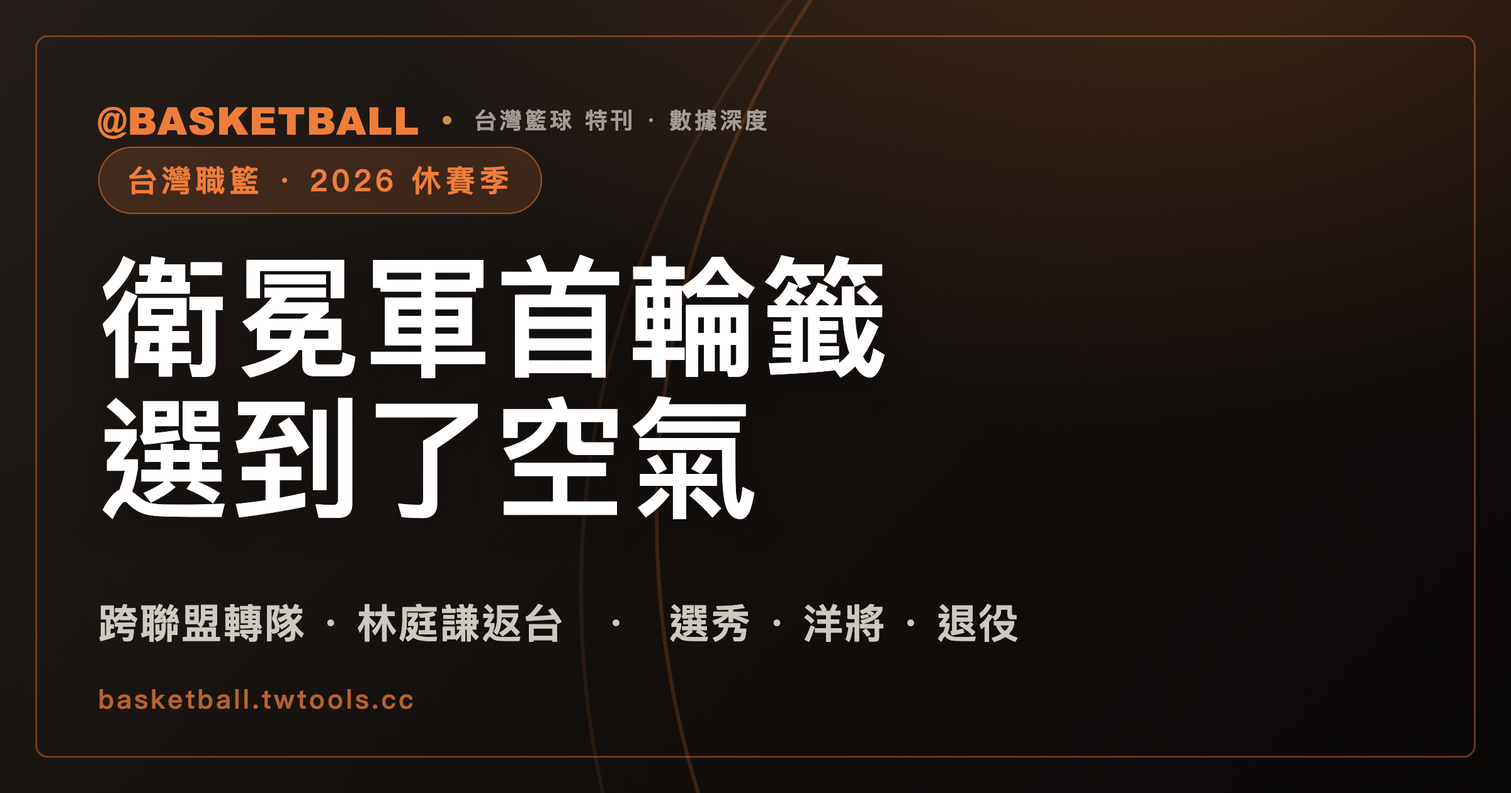
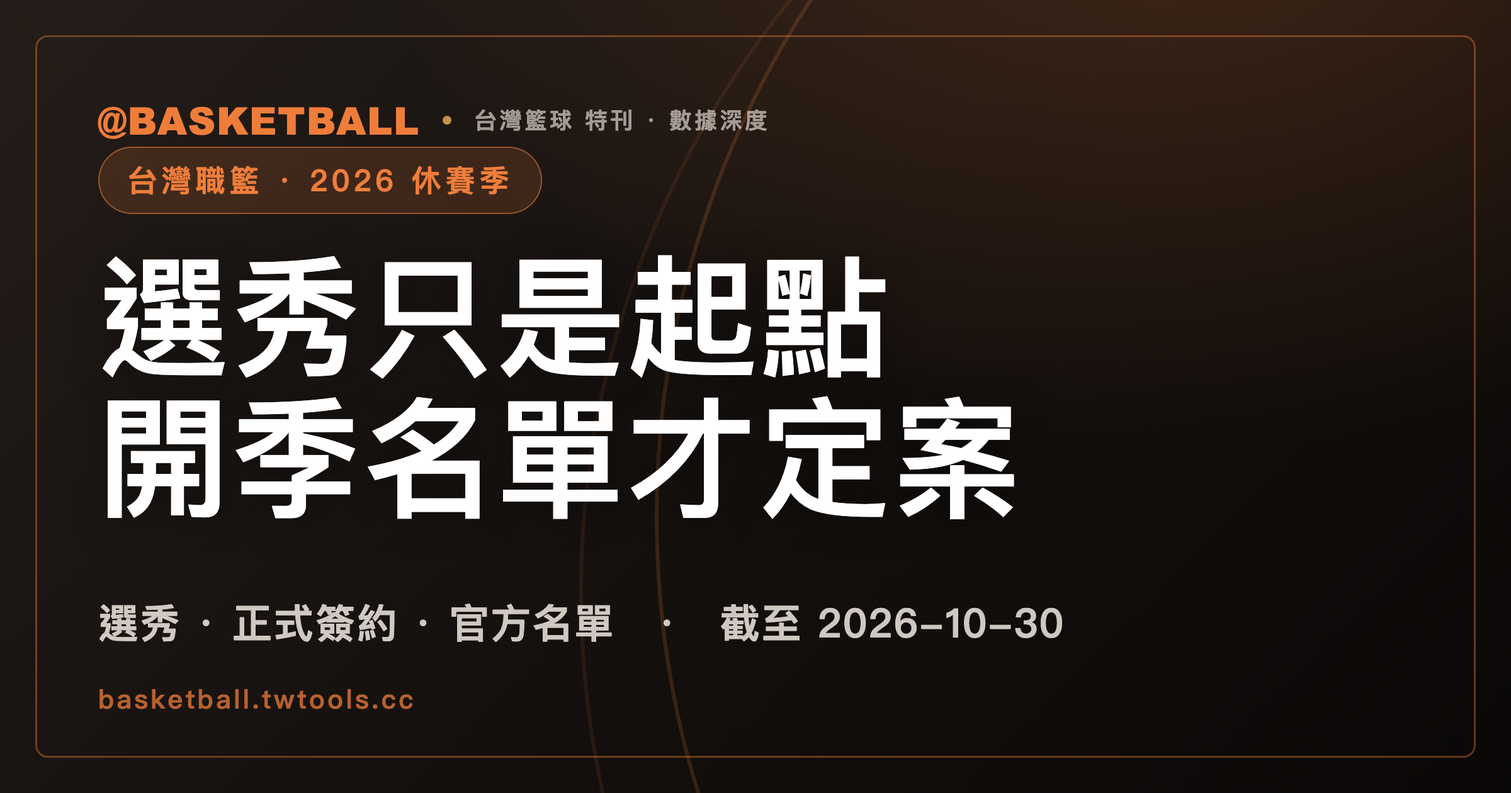
Rewrite Taiwan basketball offseason guide (#110)

Changed region(s): [[0.0625, 0.3095, 0.6875, 0.65], [0.0625, 0.7429, 0.4062, 0.8357], [0.4375, 0.7429, 0.7188, 0.8048]]

diff --git a/scripts/gen-basketball-cover.py b/scripts/gen-basketball-cover.py
@@ -68,8 +68,8 @@ COVERS = [
      "60 個順位<br>27 個換了隊",
      "兩輪逐一列出　·　上台選人的隊 · 選後去向"),
     ("taiwan-hoops-2026-offseason-moves", "台灣職籃 · 2026 休賽季",
-     "衛冕軍首輪籤<br>選到了空氣",
-     "跨聯盟轉隊 · 林庭謙返台　·　選秀 · 洋將 · 退役"),
+     "選秀只是起點<br>開季名單才定案",
+     "選秀 · 正式簽約 · 官方名單　·　截至 2026-10-30"),
     # ⚠ 封面是最會被單獨看到的載體（og:image），而標題塞不下一串限定詞。
     # 這篇的硬規則是「每一句 125 億都要看得出估值口徑＋報導層」，所以主標把「報導寫的是」
     # 四個字留著——那是限定詞不是贅字，⛔ 不要為了版面好看拿掉。

diff --git a/articles/taiwan-hoops-2026-offseason-moves/index.md b/articles/taiwan-hoops-2026-offseason-moves/index.md
@@ -5,167 +5,103 @@ topic: tw-pro
 topic_ref: "manual"
 type: "feature"
 date: "2026-08-10"
-title: "領航猿選了吳志鍇，他卻加盟戰神：2026 台灣職籃休賽季異動總表"
-subtitle: "吳志鍇跨聯盟改披戰神 13 號、林庭謙結束 6 季 CBA 生涯返台、陳力生轉投攻城獅、林秉聖由洋基工程買斷合約"
-lede: "截至 2026 年 8 月 10 日，台灣職籃最反常的一筆異動，是吳志鍇先後被 PLG 領航猿與 TPBL 戰神選中，最後只與戰神簽約。林庭謙結束 6 個 CBA 賽季返台，陳力生從 PLG 轉投 TPBL 攻城獅，林秉聖則從 TPBL 戰神轉向 PLG 洋基工程。兩個聯盟的球員流向，在同一個夏天交錯。"
+title: "選秀後不等於定案：2026 台灣職籃休賽季異動，開季後怎麼確認？"
+subtitle: "同一位球員可以先後出現在兩個聯盟的選秀結果；真正要分清楚的是選秀、簽約與新賽季官方名單。"
+lede: "截至 2026 年 10 月 30 日，TPBL 與 PLG 的 2026-27 賽季都已開打。回頭看這個休賽季，吳志鍇同時出現在 PLG 與 TPBL 的選秀結果，林秉聖則在後續獲洋基工程正式公告加盟；這些案例提醒讀者，選秀順位、交易消息與實際新東家是不同層次的資訊。"
 ---
 
-# 領航猿選了吳志鍇，他卻加盟戰神：2026 台灣職籃休賽季異動總表
+# 選秀後不等於定案：2026 台灣職籃休賽季異動，開季後怎麼確認？
 
-**台灣職籃 · 2026 休賽季｜雙聯盟選秀 · 跨聯盟轉隊｜旅外回流 · 洋將重組**
+**台灣職籃・2026 休賽季｜選秀結果・正式簽約・開季名單**
 
-桃園璞園領航猿在 PLG 選秀會上，用首輪第 4 順位選了吳志鍇。
+休賽季最容易讀錯的，不是誰被選中，而是把「被選中」直接寫成「一定替那支球隊出賽」。2026 年的台灣職籃正好有一個清楚的例子：PLG 選秀結果列出桃園璞園領航猿以第 4 順位選進吳志鍇；TPBL 之後的選秀新聞又列出臺北台新戰神以第 2 順位選進同一位球員。
 
-16 天後，臺北台新戰神又在 TPBL 選秀會上，用榜眼籤選了同一個人。
+這兩份結果沒有互相推翻。它們記錄的是兩場不同聯盟、不同日期的選秀。要知道球員最後在哪裡開季，還要往後看球團簽約、官方球員頁或聯盟的季前資訊。
 
-再過 18 天，吳志鍇披上戰神的 13 號球衣。PLG 衛冕軍領航猿的首輪籤，最後沒有換到一名報到的球員。聯合新聞網的標題寫得直接：領航猿選到「空氣」。
+截至 2026 年 10 月 30 日，TPBL 已於 10 月 17 日開打，PLG 也在 10 月 24 日展開例行賽。這篇不重列所有夏天傳聞，而是用已可回查的官方資訊，整理讀異動時應分開看的三個層次。
 
-兩個聯盟各自舉辦選秀，球員異動卻會跨過聯盟邊界。台灣職籃為什麼同時有 TPBL 與 PLG，可先讀〈[台灣職籃為什麼有兩個聯盟？](/articles/taiwan-hoops-two-leagues/)〉。這個夏天的名單，正好把並立的影響攤在桌上。
+## 第一層：選秀結果回答的是「誰被哪一隊指名」
 
-## 異動名單同時跨過 TPBL、PLG、SBL 與 CBA
+選秀結果的效力很明確：它證明該聯盟、該屆、該順位的指名確實發生，卻不單獨等同合約已完成。
 
-以下整理截至 2026 年 8 月 10 日已宣布或已有明確狀態的異動。新東家欄標出聯盟。林秉聖的買斷協議已宣布，但洋基工程仍要另行公告正式加盟資訊。雲豹第 4 名洋將與富邦 3 名洋將都已確定到位，姓名尚未公布，因此不列入具名名單。
+PLG 的 2026 選秀結果列出四名被選球員：洋基工程選王鼎鈞、台鋼獵鷹選李盛新、臺北富邦勇士選莫森、桃園璞園領航猿選吳志鍇。TPBL 的官方選秀新聞則確認，賀丹為狀元、吳志鍇為臺北台新戰神選進的榜眼，並指出該屆有 8 名球員獲 5 支球團指名。
 
-| 球員 | 異動性質 | 原屬 | 新東家 |
+因此，讀者看到「吳志鍇被領航猿選中」或「吳志鍇被戰神選中」時，都應把句子限在各自的選秀事件；不能只憑其中一份結果，跳到他必然已與哪一隊簽約的結論。
+
+## 第二層：正式簽約才會把去向從選秀名單往前推一步
+
+球團公告的「正式加盟」或「完成簽約」，才是比選秀結果更接近實際新東家的證據。這不代表一筆異動從此不會再變動，但至少已不是只有選秀或媒體消息。
+
+林秉聖的案例最適合拿來區分兩者。PLG 在 8 月 24 日刊出的球隊新聞明確寫為「正式加盟洋基工程」；9 月的後續新聞同樣以他在洋基工程亮相為主題。這比夏天的買斷或轉隊消息多了一層球團確認，因此本文把他的 2026-27 去向寫為洋基工程，而不把先前訊息停在「待公告」。
+
+李啓瑋則是另一種不靠選秀的補強。PLG 的球隊新聞寫明，臺北富邦勇士與他完成簽約並達成複數年合約共識。這類公告可支持「已簽約加盟」；若公告沒有公布薪資或完整年限，就不應把媒體估算補成球團已證實的合約條件。
+
+## 第三層：開季名單與官方球員頁，才是檢查「人是否在那裡」的後續線索
+
+聯盟開打後，可以再用官方球員頁、季前媒體日或聯盟賽事報導檢查夏天的異動是否已進入新賽季脈絡。這不是要取代簽約公告，而是為前一層資訊補上後續核對。
+
+例如，PLG 的陳昱瑞球員頁把他的經歷列為 2026-27 桃園璞園領航猿、2025-26 洋基工程；這可核對他在新球季回到領航猿。TPBL 的季前媒體日新聞則把林庭謙列為戰神新賽季的重要補強；聯盟的季前熱身賽報導也記錄他代表戰神出賽。
+
+吳志鍇方面，TPBL 的球員專題寫明他在 2026 年新人選秀以榜眼身分被臺北台新戰神選中，並在那年夏天簽下職業生涯第一份合約。這讓「兩邊選秀都出現過」與「後續職業起點落在戰神」成為可以分開陳述的兩件事，而不必把兩場選秀硬湊成一筆跨隊轉隊。
+
+## 已能確認的 2026 休賽季案例：要連同證據類型一起看
+
+| 個案 | 可確認的資訊 | 證據類型 | 不應據此延伸的事 |
 |---|---|---|---|
-| 林庭謙 | 加盟 | CBA 天津榮鋼 | 臺北台新戰神（TPBL） |
-| 米勒（Miller） | 留用 | 桃園台啤永豐雲豹（TPBL） | 桃園台啤永豐雲豹（TPBL） |
-| 莫騰（Brock Motum） | 加盟 | B.LEAGUE 滋賀湖泊 | 桃園台啤永豐雲豹（TPBL） |
-| 溫布許（Thomas Wimbush） | 加盟 | 海外聯賽 | 桃園台啤永豐雲豹（TPBL） |
-| 周儀翔 | 加盟 | SBL 基隆黑鳶 | 新北國王（TPBL） |
-| 陳力生 | 加盟 | 桃園璞園領航猿（PLG） | 新竹御嵿攻城獅（TPBL） |
-| 陳昱瑞 | 回歸 | 洋基工程（PLG） | 桃園璞園領航猿（PLG） |
-| 李啓瑋 | 加盟 | — | 臺北富邦勇士（PLG） |
-| 洪楷傑 | 續約 | 臺北富邦勇士（PLG） | 臺北富邦勇士（PLG） |
-| 莫巴耶 | 續約 | 臺北富邦勇士（PLG） | 臺北富邦勇士（PLG） |
-| 吳志鍇 | 選秀、加盟 | 政治大學 | 臺北台新戰神（TPBL） |
-| 郭嘉安 | 選秀、加盟 | 國立體育大學 | SBL 台啤 |
-| 賀丹（Adam Hinton） | 選秀 | 康乃爾大學 | 高雄全家海神（TPBL） |
-| 王鼎鈞 | 選秀 | 健行科技大學 | 洋基工程（PLG） |
-| 李盛新 | 選秀 | 輔仁大學 | 台鋼獵鷹（PLG） |
-| 莫森 | 選秀 | 輔仁大學 | 臺北富邦勇士（PLG） |
-| 林秉聖 | 買斷 | 臺北台新戰神（TPBL） | 洋基工程（PLG，正式加盟資訊待公告） |
-| 宋昕澔 | 選秀 | 政治大學 | CBA 廣州龍獅 |
-| 林志傑 | 退役 | 臺北富邦勇士（PLG） | — |
+| 吳志鍇 | PLG 第 4 順位、TPBL 第 2 順位皆曾被指名；TPBL 後續專題記錄其以戰神選秀身分簽下首份職業合約 | 兩聯盟選秀結果＋TPBL 後續報導 | 把兩場選秀寫成同一隊的交易過程 |
+| 林秉聖 | 洋基工程已發布正式加盟新聞 | 球團公告 | 由公告外推未公開的買斷或薪資條件 |
+| 李啓瑋 | 富邦勇士宣布完成簽約、達成複數年合約共識 | 球團公告 | 把未公開的年限或金額寫成定案 |
+| 陳昱瑞 | PLG 官方球員頁列其 2026-27 效力領航猿 | 官方球員頁 | 只憑球員頁回推所有交易或合約細節 |
+| 林庭謙 | 戰神季前媒體日與熱身賽報導均列其代表戰神 | 聯盟季前資訊與賽事報導 | 由出賽資訊推定未公開合約內容 |
 
-這張表有兩種方向。林庭謙從 CBA 回台，宋昕澔則往 CBA 走。陳力生從 PLG 轉往 TPBL，林秉聖的方向完全相反。吳志鍇更特別。他沒有先成為領航猿球員再轉隊，而是在兩邊都被選中後，只與戰神簽約。
+這張表特意不收未具名洋將、未經球團公告的傳聞，或只有媒體換算的薪資數字。它們可能日後被確認，但在確認前，不適合與正式簽約放在同一個「已完成」欄位。
 
-## 衛冕軍用首輪籤選了一個不會報到的人
+## 開季日也要從「尚待公告」更新成正式賽程
 
-PLG 在 2026 年 6 月 30 日舉行選秀。4 支球隊各選 1 人。洋基工程用狀元籤選進健行科大後衛王鼎鈞。王鼎鈞上季場均 14.8 分，三分球命中率 37.2%。台鋼獵鷹選進輔大前鋒李盛新。臺北富邦勇士選進輔大外籍生長人莫森。剛完成二連霸的桃園璞園領航猿，則用第 4 順位選進政大前鋒吳志鍇。
+一篇夏天的異動文通常也會寫到下一季何時開打。這類資訊同樣有時效：8 月查不到，不表示 10 月仍查不到。
 
-PLG 選秀僅進行 1 輪。4 隊在第 2 輪全數放棄。獲選 4 人，與 2025 年並列聯盟史上最少。
+TPBL 在 9 月公布 2026-27 例行賽共 126 場、每隊 36 場，並訂 10 月 17 日由福爾摩沙夢想家對新北國王開幕。PLG 則在 9 月 30 日公布新球季 60 場例行賽、4 隊各 30 場，10 月 24 日由領航猿主場迎戰富邦勇士開打。
 
-TPBL 的選秀在 7 月 16 日登場，30 人完成報名，其中 2 人在會前退出。首輪前 3 順位依序是高雄全家海神選進賀丹、臺北台新戰神選進吳志鍇、新北中信特攻選進郭嘉安。新竹御嵿攻城獅選進傅友，新北國王選進潘偉傑。桃園台啤永豐雲豹與福爾摩沙夢想家在首輪放棄。第 2 輪仍有球員獲選，第 3 輪沒有人獲選。
+所以，更新舊文時不該只把「尚未公告」改成一個日期。較完整的做法是保留公告來自哪個聯盟、何時發布、賽程規模與開幕戰是什麼，讓讀者知道那是已公布的賽程，而不是沿用過往開季慣例的推測。
 
-賀丹 23 歲，身高 194 公分，畢業於美國康乃爾大學。吳志鍇身高 196 公分，大四三分球命中率 42%。8 月 3 日，戰神正式與吳志鍇簽約。兩場選秀的選擇，在這一天只剩一份合約。
+## 讀休賽季異動的簡單順序：先問它屬於哪一層
 
-兩聯盟的選秀與球員身分類別並不相同。細節可對照〈[TPBL 與 PLG 規則比較](/articles/tpbl-plg-rules-compared/)〉。吳志鍇同時出現在兩張選秀結果裡，最後只與戰神完成簽約。
+遇到一則轉隊、選秀或買斷消息，可以依序檢查：
 
-## 陳力生與林秉聖朝相反方向跨過聯盟邊界
+1. 這是聯盟的選秀結果、球團的正式簽約公告，還是媒體報導？
+2. 若是選秀，是否有後續簽約、官方球員頁或季前資訊可以核對？
+3. 若是薪資、年限、買斷金，球團或聯盟有沒有直接公開？
+4. 是否把不同聯盟、不同日期的事件誤寫成同一筆異動？
 
-7 月 14 日，新竹御嵿攻城獅宣布陳力生加盟。據《壹蘋新聞網》報導，23 歲、175 公分的陳力生將披 3 號球衣。他從南山高中、國立體育大學一路走到職業賽場，前兩季都效力 PLG 桃園璞園領航猿。上季也曾在 2025 年 BCL 亞洲籃球冠軍聯賽出賽。
-
-陳力生的新東家是 TPBL 新竹御嵿攻城獅，不是 PLG 球隊。另一支名稱常與新竹連在一起的球隊，是 PLG 新軍洋基工程。兩隊都與新竹有關，卻分屬不同聯盟。
-
-8 月 5 日，跨聯盟的方向反了過來。TPBL 臺北台新戰神與 PLG 洋基工程達成協議，由洋基工程買斷林秉聖的合約。林秉聖曾在 CBA 浙江廣廈效力 2 年，2025-26 賽季後依約返台，並主動求去。截至 8 月 10 日，洋基工程尚未公布正式加盟資訊。
-
-「轉隊」在這個夏天不只代表換球團。陳力生從 PLG 球隊走進 TPBL，林秉聖則從 TPBL 球隊轉向 PLG。兩筆異動都跨過了聯盟邊界。
-
-## 林庭謙結束 6 個 CBA 賽季，戰神只公布複數年約
-
-8 月 6 日，臺北台新戰神宣布與林庭謙簽下複數年合約。8 月 13 日將舉辦加盟記者會。球團沒有公布合約金額，也沒有公開確切年限。
-
-林庭謙 26 歲。他結束 CBA 天津榮鋼 6 個賽季的旅外生涯返台。據台媒整理，他上季場均 19.6 分、5.2 助攻、1.5 抄截，並入選 CBA 最佳陣容第二隊。這不是一名等待養成的新秀，而是一名帶著 6 季 CBA 經驗回到台灣的後衛。
-
-據《自由時報》報導，戰神在 8 月 7 日於台北車站、中山、公館、忠孝復興、市政府、國父紀念館等捷運站周邊，發出 3,000 份「林庭謙加盟特報」。總經理林祐廷說，林庭謙將「在台北展開生涯新篇章」。戰神上季主場是台北和平籃球館。2026-27 賽季主場尚未由球團公告。
-
-宋昕澔與林庭謙，讓旅外流動在同一個夏天出現反方向。7 月 28 日上午，CBA 選秀大會在北京首鋼園電競中心舉行。廣州龍獅透過與四川男籃交易取得狀元籤，再以首輪第 1 順位指名政大後衛宋昕澔。宋昕澔成為繼 2017 年陳盈駿之後，史上第 2 位台灣籍 CBA 選秀狀元。本屆共有 5 名台灣球員符合資格。據民報與 NOWnews 報導，依 CBA 選秀規定，狀元保障年薪至少 50 萬人民幣，約新台幣 239 萬。這是制度保障底薪，不是宋昕澔合約的實際金額。
-
-## 6,000 萬只是媒體預估，不是林庭謙的官方年薪
-
-林庭謙的官方資訊只有「複數年合約」。金額未公開。
-
-《自由時報》把林庭謙年薪預估為新台幣 6,000 萬元，並稱可能是台灣職籃最高薪。這是媒體預估，不是戰神公告的數字。
-
-同一篇報導再把 6,000 萬元與 3 個市場放在一起比較。CBA 本土頂薪是稅前 600 萬人民幣，報導換算約新台幣 2,870 萬元。KBL 的比較數字約 8 億韓元，報導換算約新台幣 1,821 萬元。B.LEAGUE 的個案最高薪是渡邊雄太 2 億日圓，報導換算約新台幣 4,077 萬元。
-
-這組比較不能直接當成 4 個對齊的官方薪資數字。林庭謙端是媒體預估。CBA 端是制度頂薪。KBL 與 B.LEAGUE 端又不是同一種基準。《自由時報》把台灣兩聯盟並立、沒有薪資上限所形成的「軍備競賽」，列為推高價格的原因。這也是媒體的比較與歸因，不是聯盟或球團說法。
-
-NBA 的休賽季也一樣，談定、正式完成與媒體報導是 3 種不同狀態，〈[2026 NBA 休賽季異動總表](/articles/nba-2026-offseason-moves/)〉就把已完成與待確認分開列。
-
-## 雲豹公布 2 名新洋將，第 4 人仍沒有姓名
-
-桃園台啤永豐雲豹留用米勒，另簽下莫騰與溫布許。據《自由時報》8 月 10 日兩篇報導，兩名新洋將都是第一次來台灣打球。
-
-莫騰是澳洲籍，身高 208 公分，左撇子。他曾是 2016 年里約奧運澳洲國手。2024-25 賽季效力日本 B.LEAGUE 滋賀湖泊時，莫騰以場均 21.4 分、8 籃板成為球隊得分王。
-
-溫布許是美國籍，身高 201 公分，同樣是左撇子。他曾在德國、法國、俄羅斯、黎巴嫩聯賽打球，也效力過日本 B1 川崎與滋賀。上季出賽 58 場，場均 15.6 分、5.1 籃板。
-
-雲豹營運長顏行書表示，第 4 名洋將「已確定到位、近期公布」。截至 8 月 10 日，姓名還沒有公布。球隊也將補進 1 名本土球員，姓名同樣尚未公布。
-
-克羅馬、麥卡洛與迪亞洛已在上季結束後離隊。留用 1 人、新簽 2 人、另有 1 人待公布，雲豹的洋將重組輪廓已經出現，但名單還差最後一個名字。
-
-## 領航猿找回陳昱瑞，準備挑戰 PLG 三連霸
-
-8 月 7 日，桃園璞園領航猿宣布陳昱瑞回歸。球團稱陳昱瑞是「冠軍拼圖的一分子」，並把下季目標指向三連霸。
-
-陳昱瑞在 2025 年 9 月被領航猿交易到洋基工程。上季替洋基工程出賽 21 場，場均 6.4 分、2.3 籃板、2.2 助攻。據《自由時報》報導，洋基工程買斷林秉聖後重整陣容，與陳昱瑞分道揚鑣。陳昱瑞因而回到領航猿。
-
-陳昱瑞上季效力的洋基工程，就是 8 月 5 日買斷林秉聖的那支 PLG 新軍，與 TPBL 的新竹御嵿攻城獅分屬兩個聯盟。
-
-## 林志傑最後一戰輸了 26 分，富邦開始補退役後的空缺
-
-林志傑在 2025 年 10 月 3 日宣布，會在 2025-26 賽季結束後退休。當時 43 歲的他，也預告 2026 年 4 月 11 日、12 日在台北小巨蛋舉行引退賽。
-
-生涯最後一場比賽出現在 6 月 18 日。PLG 總冠軍賽打到第 7 戰，臺北富邦勇士以 81：107 不敵桃園璞園領航猿。領航猿完成二連霸。林志傑賽後說，最大遺憾是「沒有拿到冠軍，而不是退休這件事」，並用「堅持」總結生涯。林志傑目前已正式退役。
-
-富邦的 2026 休賽季，因此是林志傑退役後的第一個夏天。據《自由時報》報導，總經理葉宗穎在 8 月 10 日表示，球團會全力爭取旅外球員。外界問到陳盈駿與劉錚的傳聞，他只回應傳聞很多，目前不方便多做回應。兩人的去向沒有因此獲得確認。
-
-富邦已選進外籍生莫森，簽下射手李啓瑋，並與洪楷傑、外籍生莫巴耶續約。另有 3 名洋將已到位，將由球團陸續公布。這些是已知的補強。陳盈駿與劉錚仍只是被問到的名字。
-
-## 郭嘉安放棄 TPBL，改與 SBL 台啤簽約
-
-新北中信特攻在 TPBL 選秀用探花籤選進郭嘉安。郭嘉安最後沒有進入 TPBL。8 月 7 日，他與 SBL 台啤完成簽約。郭嘉安在 SBL 選秀同樣是探花順位。
-
-據《自由時報》報導，郭嘉安隨後在長耀盃未來聯盟公益邀請賽對虎尾科大出賽近 23 分鐘。他 20 投 13 中，拿下 33 分、9 籃板，正負值是 +27。台啤以 79：56 取勝。郭嘉安把目標放在新人王，也希望幫助台啤重返總冠軍賽。
-
-郭嘉安的路線與吳志鍇不同，結果卻同樣提醒一件事：被職籃球隊選中，不等於最後一定會向該隊報到。選秀結果是起點。簽約才決定下一站。
-
-## 夢想家與領航猿都在第 7 戰拿下冠軍
-
-2025-26 賽季的兩個冠軍，都要打到第 7 戰才產生。
-
-TPBL 總冠軍賽在 6 月 6 日結束。福爾摩沙夢想家以 90：78 擊敗新北國王。夢想家曾在系列賽以 1：3 落後，接著連贏 3 場，以 4：3 拿下隊史首冠。班提爾在第 7 戰得到 29 分、13 籃板，獲選總冠軍賽最有價值球員。海碩集團董事長韓國福宣布冠軍獎金 3,500 萬元。
-
-PLG 總冠軍賽在 6 月 18 日結束。桃園璞園領航猿以 107：81 擊敗臺北富邦勇士，同樣以 4：3 贏下系列賽。領航猿完成二連霸。富邦連續 2 年在第 7 戰落敗。
-
-這兩個冠軍也解釋了休賽季的兩條主線：領航猿找回陳昱瑞準備挑戰三連霸，富邦則在林志傑退役後補人。
-
-## 兩個聯盟都還沒有公布 2026-27 開季日
-
-截至 2026 年 8 月 10 日，TPBL 與 PLG 都還沒有公布 2026-27 賽季開季日期。
-
-TPBL 官網首頁與賽程頁沒有 2026-27 資料。台新戰神官網的賽季選單也只到 2025-26。PLG 同樣沒有公布 2026-27 開季日。新賽季的實際日期，仍要等兩聯盟公告。
+這個順序不會讓每則消息立刻變得完整，卻能避免把「已被指名」「預計加盟」與「已出現在新球季官方資訊」混成同一種事實。想先理解兩個聯盟並立的背景，可參考〈[台灣職籃為什麼有兩個聯盟？](/articles/taiwan-hoops-two-leagues/)〉；想查新賽季的實際賽程，則應回到 TPBL 與 PLG 的官方頁面。
 
 ## 常見問題
 
-### 吳志鍇最後會替哪一隊打球？
+### 被選秀隊指名，就代表一定會替那隊出賽嗎？
 
-吳志鍇在 2026 年先後被 PLG 桃園璞園領航猿與 TPBL 臺北台新戰神選中，最後於 8 月 3 日正式與台新戰神簽約，將披 13 號球衣。領航猿雖然用 PLG 首輪第 4 順位選中吳志鍇，但沒有與他完成簽約。
+不一定。選秀結果只確認指名事實；後續仍應查球團是否公告簽約，以及開季前後的官方球員資訊。2026 年吳志鍇同時出現在 PLG 與 TPBL 的選秀結果，就是不宜把單一選秀名單直接當成最終去向的例子。
 
-### 林庭謙加盟戰神的年薪是 6,000 萬元嗎？
+### 林秉聖 2026-27 賽季效力哪一隊？
 
-不是官方已公布的數字。臺北台新戰神只宣布與林庭謙簽下複數年合約，沒有公開金額與確切年限。新台幣 6,000 萬元是《自由時報》的媒體預估，不能當成球團公告的年薪。
+洋基工程在 2026 年 8 月 24 日發布正式加盟新聞，9 月亦有他的球隊亮相報導。本文據此列為洋基工程球員；未公開的合約條件不另行推定。
 
-### 陳力生加盟的是 TPBL 還是 PLG 球隊？
+### 為什麼本文沒有列出每一名洋將與每一個傳聞？
 
-陳力生加盟的是 TPBL 新竹御嵿攻城獅。他前兩個職業賽季效力 PLG 桃園璞園領航猿，因此這是一筆從 PLG 跨到 TPBL 的異動。PLG 的新竹新軍是洋基工程，不能與攻城獅混為一隊。
+本文是舊文更新後的確認清單，不是即時傳聞彙整。未具名、尚未有球團公告，或只有媒體推測的資訊，無法與官方簽約公告採同一標準，因此不列入表格。
 
-### 桃園台啤永豐雲豹的 4 名洋將都公布了嗎？
+### 2026-27 賽季的 TPBL 與 PLG 何時開打？
 
-還沒有。截至 2026 年 8 月 10 日，雲豹已留用米勒，並公布新簽莫騰與溫布許。營運長顏行書表示第 4 名洋將已確定到位、近期公布，但球員姓名尚未公開。
+TPBL 例行賽於 2026 年 10 月 17 日開打，PLG 例行賽於 10 月 24 日開打。兩個日期均依兩聯盟在 9 月發布的正式賽程公告；比賽時間、場館與後續調整仍應以官方賽程頁為準。
 
-### TPBL 與 PLG 的 2026-27 賽季何時開打？
+## 資料來源
 
-截至 2026 年 8 月 10 日，TPBL 與 PLG 都尚未公告 2026-27 賽季開季日期。實際開打時間仍要等兩聯盟各自公布。
+- [PLG 2026 選秀結果](https://pleagueofficial.com/draft/2026-27/draft-result)（2026-10-30 查核）
+- [TPBL 2026 新人選秀會結果](https://tpbl.basketball/news/435)（2026-10-30 查核）
+- [洋基工程宣布林秉聖正式加盟](https://pleagueofficial.com/news-detail/892)（2026-10-30 查核）
+- [富邦勇士宣布簽約李啓瑋](https://pleagueofficial.com/news-detail/880)（2026-10-30 查核）
+- [陳昱瑞 PLG 官方球員頁](https://pleagueofficial.com/player/0yhk9eDY/)（2026-10-30 查核）
+- [TPBL 吳志鍇球員專題](https://tpbl.basketball/news/495)（2026-10-30 查核）
+- [TPBL 戰神季前媒體日](https://tpbl.basketball/news/518)（2026-10-30 查核）
+- [TPBL 季前熱身賽首日](https://tpbl.basketball/news/501)（2026-10-30 查核）
+- [TPBL 2026-27 賽程與開幕戰公告](https://tpbl.basketball/news/457)（2026-10-30 查核）
+- [PLG 2026-27 賽程與開幕戰公告](https://pleagueofficial.com/news-detail/906)（2026-10-30 查核）
